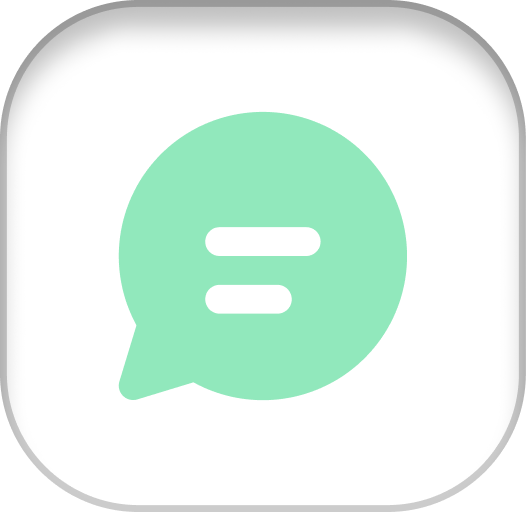
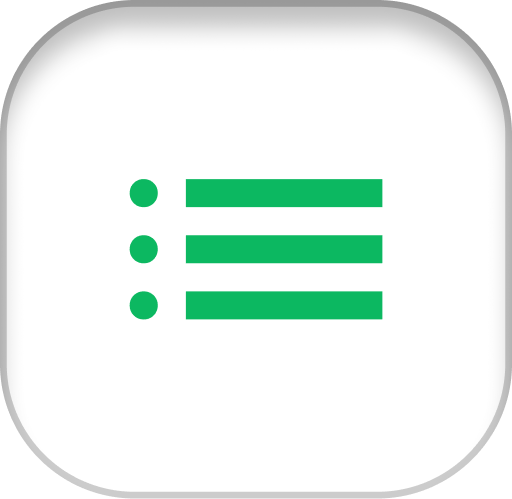
frontend complete

Changed region(s): [[0.2188, 0.2104, 0.7812, 0.7816], [0.25, 0.992, 0.75, 1.0]]

diff --git a/mental-health/src/pages/HomePage.jsx b/mental-health/src/pages/HomePage.jsx
@@ -1,25 +1,29 @@
-import { useState, useEffect } from 'react';
+import React, { useState, useEffect } from 'react';
+import axios from 'axios';
 import { Link } from 'react-router-dom';
-import axios from 'axios';  // Ensure axios is correctly imported
-import guidedBreathing from '../assets/images/guidedBreathing.png';
+import guidedBreathing from '../assets/images/logo.png';
 import '../css/HomePage.css';
 import ItemComponent from '../components/ItemComponent';
+import SearchComponent from '../components/SearchComponent';
 
 const HomePage = () => {
   const [names, setNames] = useState([]);
   const [isLoading, setIsLoading] = useState(false);
   const [error, setError] = useState(null);
+  const [query, setQuery] = useState(''); // State to store search query
+  const [filteredNames, setFilteredNames] = useState([]); // State to store filtered names
 
   useEffect(() => {
     const fetchData = async () => {
       setIsLoading(true);
       setError(null);
       try {
-        const response = await axios.get('http://localhost:8000/names');
+        const response = await axios.get('https://data-hackfest.onrender.com/names');
         setNames(response.data);
+        setFilteredNames(response.data); // Initialize filteredNames with all names
       } catch (error) {
         setError(error);
-        console.error('Error fetching data:', error);  // Log the error
+        console.error('Error fetching data:', error);
       } finally {
         setIsLoading(false);
       }
@@ -28,20 +32,33 @@ const HomePage = () => {
     fetchData();
   }, []);
 
+  const handleSearch = () => {
+    const filtered = names.filter((name) =>
+      name.toLowerCase().includes(query.toLowerCase())
+    );
+    setFilteredNames(filtered); // Update filteredNames instead of names
+  };
+
   return (
     <>
-      <Link to="/meditate">
-        <img
-          className="guidedBreathingImg"
-          src={guidedBreathing}
-          alt="guided breathing"
-        />
-      </Link>
+      <div className="container">
+        <div className='topBar'>
+          <img
+            className="guidedBreathingImg"
+            src={guidedBreathing}
+            alt="guided breathing"
+          />
+          <SearchComponent query={query} setQuery={setQuery} />
+          <button className='searchButton' onClick={handleSearch}>Search</button>
+        </div>
+      </div>
       {isLoading && <p>Loading...</p>}
       {error && <p>Error: {error.message}</p>}
       <ul>
-        {names.map((name, index) => (
-          <li key={index}><ItemComponent meditationName={name} />
+        {/* Use filtered data after search */}
+        {filteredNames.map((name, index) => (
+          <li key={index}>
+            <ItemComponent meditationName={name} />
           </li>
         ))}
       </ul>

diff --git a/mental-health/src/pages/Meditate.jsx b/mental-health/src/pages/Meditate.jsx
@@ -4,18 +4,21 @@ import chat from "../assets/images/chat.png";
 import meditate from "../assets/images/meditation.png";
 import alarmSound from "../assets/sounds/alarm.mp3";
 import calmMusic from "../assets/sounds/calmMusic.mp3";
+import axios from 'axios';  // Ensure axios is correctly imported
 import '../css/Meditate.css'
+import Typography from '@mui/material/Typography';
 
 const Meditate = () => {
-  const [timer, setTimer] = useState("00 : 59");
+  const [timer, setTimer] = useState("15 : 00");
   const [isRunning, setIsRunning] = useState(false);
-  const [currentTime, setCurrentTime] = useState(59);
+  const [currentTime, setCurrentTime] = useState(900);
   const [alarmAudio] = useState(new Audio(alarmSound));
   const [calmMusicAudio] = useState(new Audio(calmMusic));
-
-  // Access the meditationName prop from the location state
   const location = useLocation();
-  const meditationName = location.state?.meditationName;
+  // Access the meditationName prop from the location state
+  const [instructions, setInstructions] = useState("");
+  const [time, setTime] = useState("00:00");
+  const [meditationName, setMeditationName] = useState("");
 
   useEffect(() => {
     let timerInterval;
@@ -38,6 +41,20 @@ const Meditate = () => {
 
     return () => clearInterval(timerInterval);
   }, [isRunning]);
+
+  useEffect(() => {
+    const meditationNameTem = location.state.meditationName;
+    setMeditationName(meditationNameTem);
+    const encodedName = encodeURIComponent(meditationNameTem);
+    axios.get(`https://data-hackfest.onrender.com/meditation/${encodedName}`)
+      .then(response => {
+        console.log(response.data.instructions)
+        setInstructions(response.data.instructions);
+      })
+      .catch(error => {
+        setError(error);
+      });
+  }, []);
 
   useEffect(() => {
     const minutes = Math.floor(currentTime / 60)
@@ -65,7 +82,7 @@ const Meditate = () => {
 
   const resetTimer = () => {
     setIsRunning(false);
-    setCurrentTime(59);
+    setCurrentTime(900);
     alarmAudio.pause();
     alarmAudio.currentTime = 0;
     calmMusicAudio.pause();
@@ -86,13 +103,15 @@ const Meditate = () => {
             <img src={chat} className="message-icon" alt="Back to home" />
           </div>
         </Link>
-        <div>
-          {meditationName}
-          {console.log("Hi ", meditationName)}
+        <div className="meditationName">
+          <h1>{meditationName}</h1>
         </div>
         <div className="meditateImage">
           <img src={meditate} alt="Meditate" />
         </div>
+        <Typography variant="body1" gutterBottom className="instructionBody">
+          {instructions}
+        </Typography>
         <div className="controlsContainer">
           <button
             className="button start"

diff --git a/mental-health/src/components/ItemComponent.jsx b/mental-health/src/components/ItemComponent.jsx
@@ -1,19 +1,21 @@
 import React from 'react';
 import { Link } from 'react-router-dom';
+import '../css/ItemComponent.css'; // Import the CSS file for styling
+import send from '../assets/images/send.png';
 
-const ItemComponent = ({ meditationName }) => {
+const MeditationItem = ({ meditationName }) => {
   return (
     <div className='meditationItem'>
-      {meditationName}
-
-      <Link to={{
-        pathname: "/meditate",
-        state: { meditationName: meditationName }
-      }}>
-        <div className="goToMedBtn">Go to Meditation</div></Link>
-      
+      <div className="content">
+        <h2 className="meditationName">{meditationName}</h2>
+        <div className="linkContainer">
+          <Link to="/meditate" state={{ meditationName: meditationName }}>
+            <img className='sendBtn' src={send}/>
+          </Link>
+        </div>
+      </div>
     </div>
   );
 };
 
-export default ItemComponent;
+export default MeditationItem;

diff --git a/mental-health/src/css/HomePage.css b/mental-health/src/css/HomePage.css
@@ -4,8 +4,39 @@
 
 
 .guidedBreathingImg {
-    max-height: 75px;
-    max-width: 75px;
-    margin-left: 20px;
-    margin-right: 25px;
+    max-height: 100px;
+    max-width: 100px;
+    margin: 20px;
 }
+
+.container {
+    display: flex;
+    flex-direction: column;
+    align-items: center;
+  }
+  
+  .topBar {
+    display: flex;
+    align-items: center;
+  }
+  
+  .searchButton {
+    background-color: #9191E8;
+    color: #fff;
+    border: none;
+    padding: 10px 20px;
+    font-size: 16px;
+    border-radius: 20px;
+    cursor: pointer;
+    transition: background-color 0.3s ease;
+    margin-left: 5px;
+  }
+  
+  .searchButton:hover {
+    background-color: #6767DF;
+  }
+  
+  .searchButton:active {
+    transform: translateY(1px);
+  }
+  

diff --git a/mental-health/src/css/SearchComponent.css b/mental-health/src/css/SearchComponent.css
@@ -1,0 +1,41 @@
+.searchContainer {
+    position: relative;
+  }
+  
+  .searchInput {
+    padding: 10px 15px;
+    font-size: 16px;
+    border: 2px solid #ccc;
+    border-radius: 20px;
+    width: 300px;
+    outline: none;
+  }
+  
+  .searchInput:focus {
+    border-color: #007bff;
+  }
+  
+  .searchIcon {
+    position: absolute;
+    top: 50%;
+    right: 15px;
+    transform: translateY(-50%);
+    cursor: pointer;
+  }
+  
+  .searchIcon img {
+    width: 20px;
+    height: 20px;
+  }
+  
+  .searchInput::placeholder {
+    color: #999;
+  }
+  
+  /* Media query for responsiveness */
+  @media (max-width: 768px) {
+    .searchInput {
+      width: 100%;
+    }
+  }
+  

diff --git a/mental-health/src/css/Meditate.css b/mental-health/src/css/Meditate.css
@@ -6,8 +6,9 @@
   justify-content: space-between;
   align-items: center;
   height: 100vh;
+  width: 100%;
   /* Set the height to the full viewport height */
-  overflow: hidden;
+  /* overflow: hidden; */
   /* Hide any content that overflows the viewport */
 }
 
@@ -44,6 +45,11 @@
   }
 }
 
+.instructionBody {
+
+}
+
+
 .message-icon {
   margin-top: 10px;
   margin-left: 20px;
@@ -65,8 +71,8 @@
   justify-content: center;
   align-items: center;
   background: linear-gradient(to right, #E6FAF0 0%, #91E8BC 50%, #E6FAF0 100%);
-  width: 886px;
-  height: 120px;
+  width: 700px;
+  height: 100px;
   margin-top: 15px;
   font-size: 39px;
 }

diff --git a/mental-health/src/css/ItemComponent.css b/mental-health/src/css/ItemComponent.css
@@ -1,0 +1,39 @@
+.meditationItem {
+    background-color: #E6E6FA;
+    border: 1px solid #ddd;
+    border-radius: 8px;
+    padding: 20px;
+    margin: 20px;
+  }
+  
+  .content {
+    display: flex;
+    justify-content: space-between;
+    align-items: center;
+  }
+  
+  .meditationName {
+    font-size: 20px;
+    color: #333;
+    margin: 0;
+  }
+  
+  .linkContainer {
+    margin-left: auto;
+  }
+  
+  .sendBtn{
+    max-width: 30px;
+    max-height: 30px;
+  }
+  
+  .no-underline {
+    text-decoration: none;
+  }
+  .goToMedBtn:hover {
+    background-color: #3DD688;
+  }
+
+  ul {
+    list-style-type: none;
+  }

diff --git a/mental-health/src/components/SearchComponent.jsx b/mental-health/src/components/SearchComponent.jsx
@@ -1,0 +1,22 @@
+import React from 'react';
+import '../css/SearchComponent.css'
+
+const SearchComponent = ({ query, setQuery }) => {
+    const handleInputChange = (event) => {
+      setQuery(event.target.value);
+    };
+  
+    return (
+      <div className="searchContainer">
+        <input
+          type="text"
+          placeholder="Search meditations"
+          value={query}
+          onChange={handleInputChange}
+          className="searchInput"
+        />
+      </div>
+    );
+  };
+  
+  export default SearchComponent;
